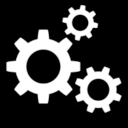
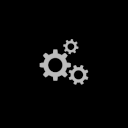
Updated css, assets & order of WorldObjects.

Changed region(s): [[0.0312, 0.0312, 0.9688, 0.9062]]

diff --git a/src/components/general/world-objects-list/WorldObjectsList.jsx b/src/components/general/world-objects-list/WorldObjectsList.jsx
@@ -50,6 +50,7 @@ export const WorldObjectsList = () => {
 
     const { state, setState, setSelectedApp, selectedApp } = useContext( AppContext );
     const [ apps, setApps ] = useState( world.appManager.getApps().slice() );
+    const [ sortedApps, setSortedApps ] = useState( [] );
     const [ rotationMode, setRotationMode ] = useState( 'euler' );
     const [ rotationEulerOrder, setRotationEulerOrder ] = useState( 'YXZ' );
     const [ needsUpdate, setNeedsUpdate ] = useState( false );
@@ -324,6 +325,36 @@ export const WorldObjectsList = () => {
 
     }, [ selectedApp ] );
 
+    useEffect( () => {
+
+        if ( ! apps ) return;
+
+        const sortedApps = [];
+
+        apps.forEach( ( app ) => {
+
+            if ( [ 'glb', 'html', 'gltf', 'vrm', 'gif' ].indexOf( app.appType ) !== -1 ) {
+
+                sortedApps.push( app );
+
+            }
+
+        });
+
+        apps.forEach( ( app ) => {
+
+            if ( [ 'glb', 'html', 'gltf', 'vrm', 'gif' ].indexOf( app.appType ) === -1 ) {
+
+                sortedApps.push( app );
+
+            }
+
+        });
+
+        setSortedApps( sortedApps );
+
+    }, [ apps ] );
+
     //
 
     const appTypeIcons = { 'js': 'script', 'light': 'light' };
@@ -339,7 +370,7 @@ export const WorldObjectsList = () => {
                 {
                     <div className={ styles.objects } >
                     {
-                        apps.map( ( app, i ) => (
+                        sortedApps.map( ( app, i ) => (
                             <div className={ classnames( styles.object, app === selectedApp ? styles.selected : null ) } key={ i } onClick={ handleItemClick.bind( this, app ) } onMouseEnter={ handleItemMouseEnter.bind( this, app ) } onMouseLeave={ handleItemMouseLeave.bind( this, app ) } >
                                 <img src="images/webpencil.svg" className={ classnames( styles.backgroundInner, styles.lime ) } />
                                 {
@@ -349,10 +380,10 @@ export const WorldObjectsList = () => {
                                             startUrl={ app.contentId }
                                             width={ 80 }
                                             height={ 80 }
-                                            // background={ '#000' }
+                                            app={ app }
                                         />
                                     ) : (
-                                        <img src={ `./images/ui/${ appTypeIcons[ app.appType ] ?? 'gears' }-icon.png` } className={ styles.gearsPlaceHolder } />
+                                        <img src={ `./images/ui/${ appTypeIcons[ app.appType ] ?? 'gears' }-icon.png` } className={ styles.defaultPlaceHolder } />
                                     )
                                 }
                                 <div className={ styles.wrap } >

diff --git a/src/components/general/object-screenshot/ObjectScreenshot.jsx b/src/components/general/object-screenshot/ObjectScreenshot.jsx
@@ -2,13 +2,13 @@
 import React, { useEffect, useRef } from 'react';
 import classnames from 'classnames';
 
-import { screenshotObjectUrl } from '../../../../object-screenshotter';
+import { screenshotObjectApp } from '../../../../object-screenshotter';
 
 import styles from './object-screenshot.module.css';
 
 //
 
-export const ObjectScreenshot = ({ startUrl, width, height, className = '' }) => {
+export const ObjectScreenshot = ({ app, startUrl, width, height, className = '' }) => {
 
     const canvasRef = useRef( null );
 
@@ -16,7 +16,7 @@ export const ObjectScreenshot = ({ startUrl, width, height, className = '' }) =>
 
         if ( ! canvasRef.current ) return;
 
-        await screenshotObjectUrl({ canvas: canvasRef.current, start_url: startUrl, width, height });
+        await screenshotObjectApp({ app, clearAlpha: 0, canvas: canvasRef.current, start_url: startUrl, width, height });
 
     }, [ startUrl, canvasRef.current ] );
 
@@ -25,6 +25,7 @@ export const ObjectScreenshot = ({ startUrl, width, height, className = '' }) =>
     return (
         <div className={ classnames( className, styles.imgWrapper ) } >
             <canvas ref={ canvasRef } />
+            <div className={ styles.background } />
         </div>
     );
 

diff --git a/src/components/general/world-objects-list/world-objects-list.module.css b/src/components/general/world-objects-list/world-objects-list.module.css
@@ -8,7 +8,6 @@
     transform: translateX( 350px );
     transition: transform 0.3s cubic-bezier(0, 1, 0, 1);
     background-color: #000;
-    border-left: 3px solid #aaa;
     z-index: 9;
     overflow: hidden;
 }
@@ -60,10 +59,15 @@
     height: 80px;
     margin: 0 10px;
     object-fit: cover;
-    border: 1px solid #222;
+    border-radius: 10px;
+    overflow: hidden;
 }
 
-.objects .object .gearsPlaceHolder {
+.objects .object:hover .img div {
+    background-image: radial-gradient(#7e57c2, #512da8);
+}
+
+.objects .object .defaultPlaceHolder {
     position: relative;
     min-width: 80px;
     height: 80px;
@@ -125,7 +129,6 @@
     width: 350px;
     height: 100%;
     background-color: #000;
-    border-left: 3px solid #aaa;
     transform: translateX( -100% );
     transition: transform 0.3s cubic-bezier(0, 1, 0, 1);
 }

diff --git a/src/components/general/object-screenshot/object-screenshot.module.css b/src/components/general/object-screenshot/object-screenshot.module.css
@@ -2,10 +2,23 @@
 .imgWrapper {
     width: 80px;
     height: 80px;
-    background-color: #000;
 }
 
 .imgWrapper canvas {
+    position: absolute;
+    top: 0px;
+    left: 0px;
     width: 100%;
     height: 100%;
+    z-index: 1;
+}
+
+.imgWrapper .background {
+    position: absolute;
+    top: 0px;
+    left: 0px;
+    width: 100%;
+    height: 100%;
+    background-image: radial-gradient(#444, #222);
+    z-index: 0;
 }
